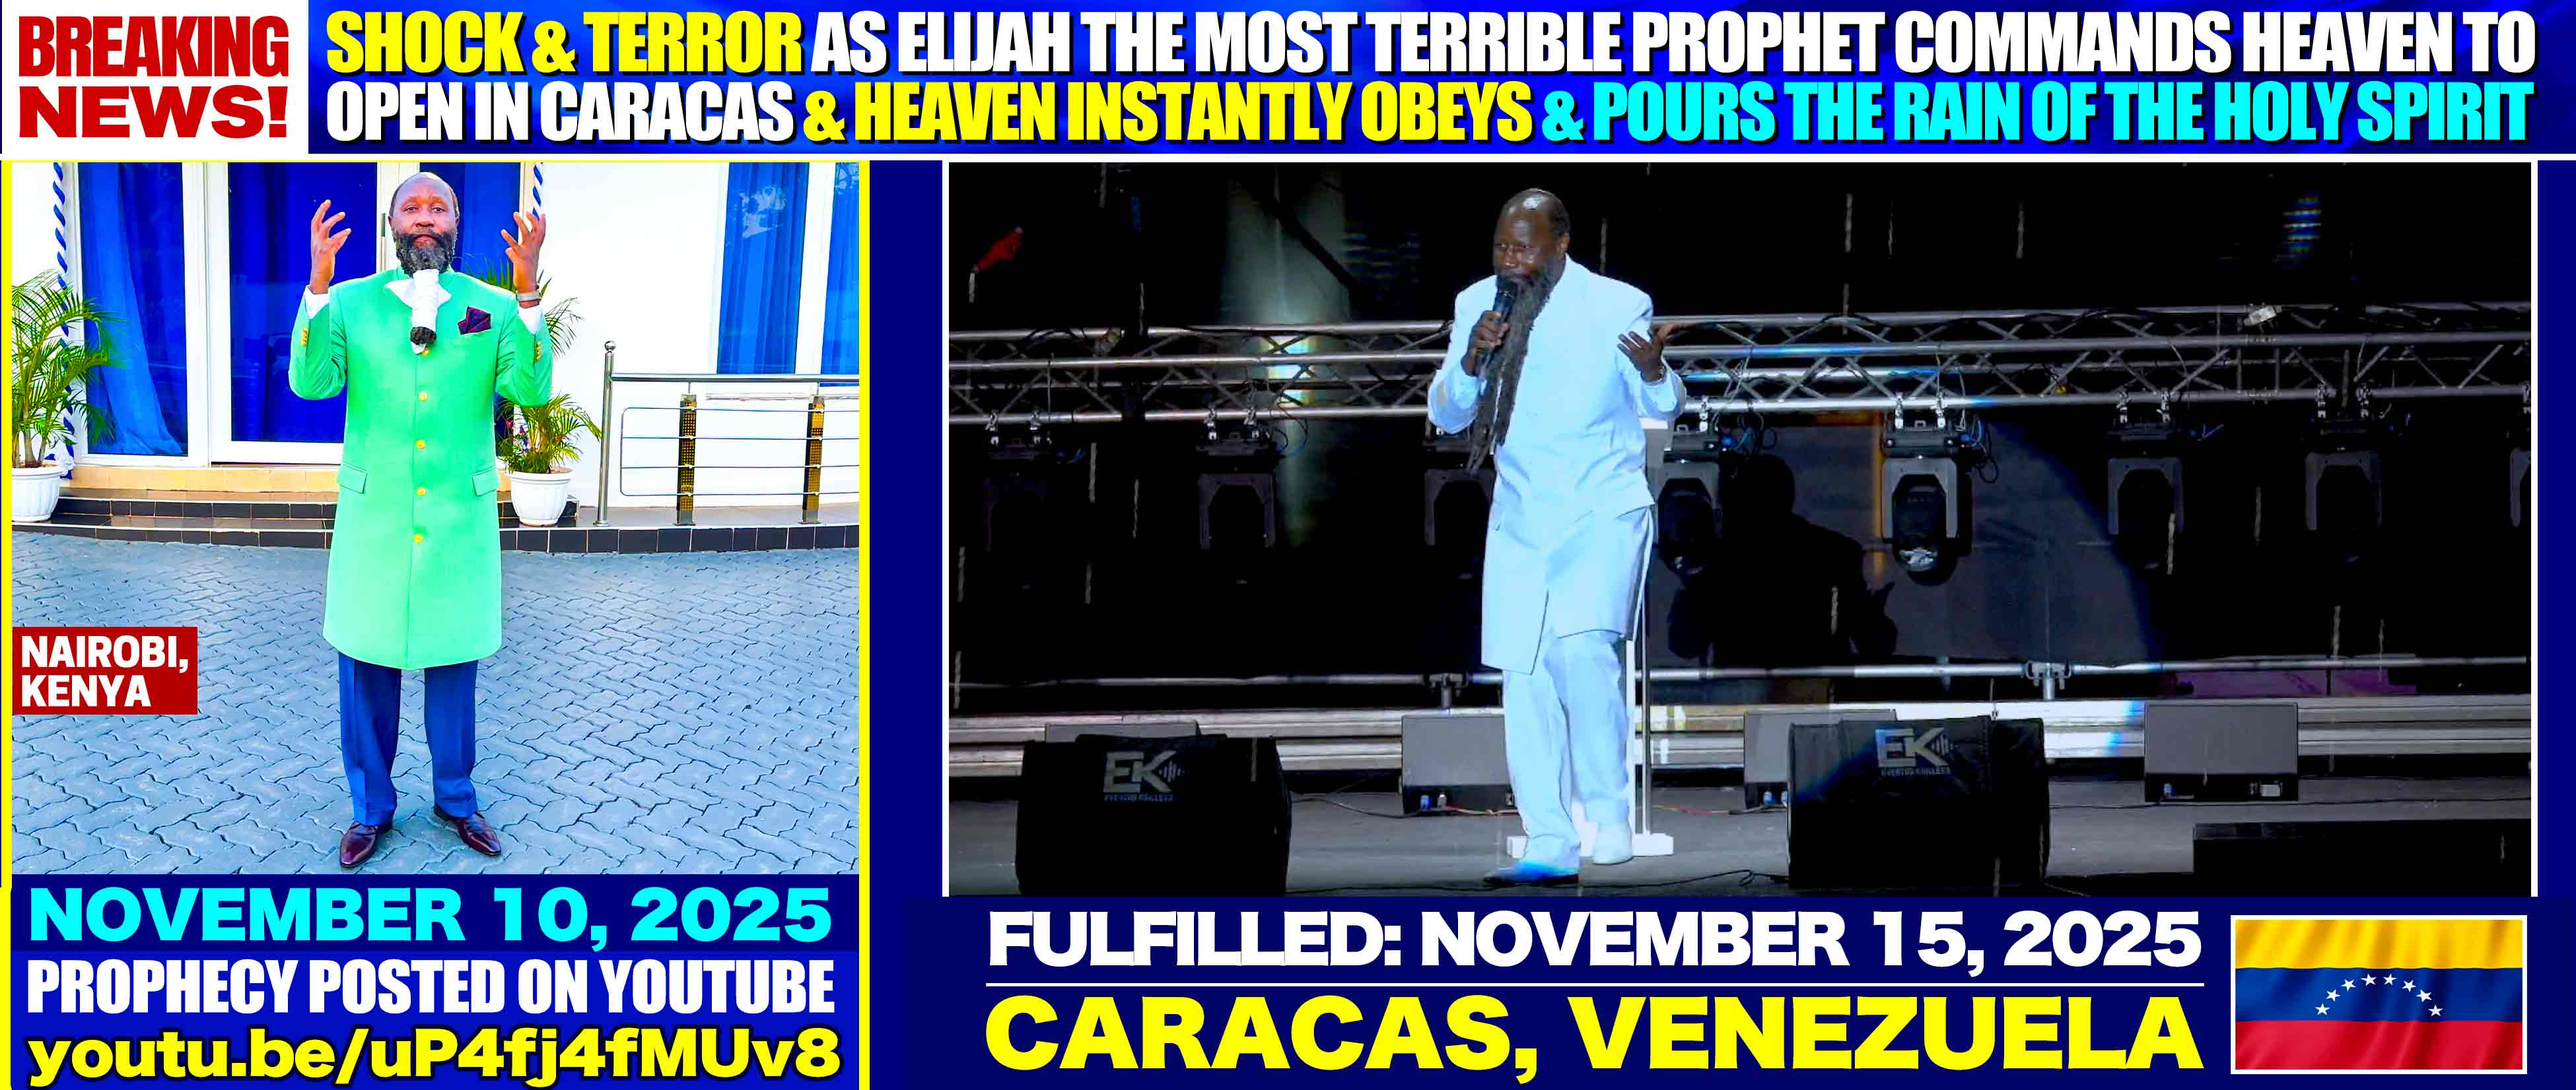
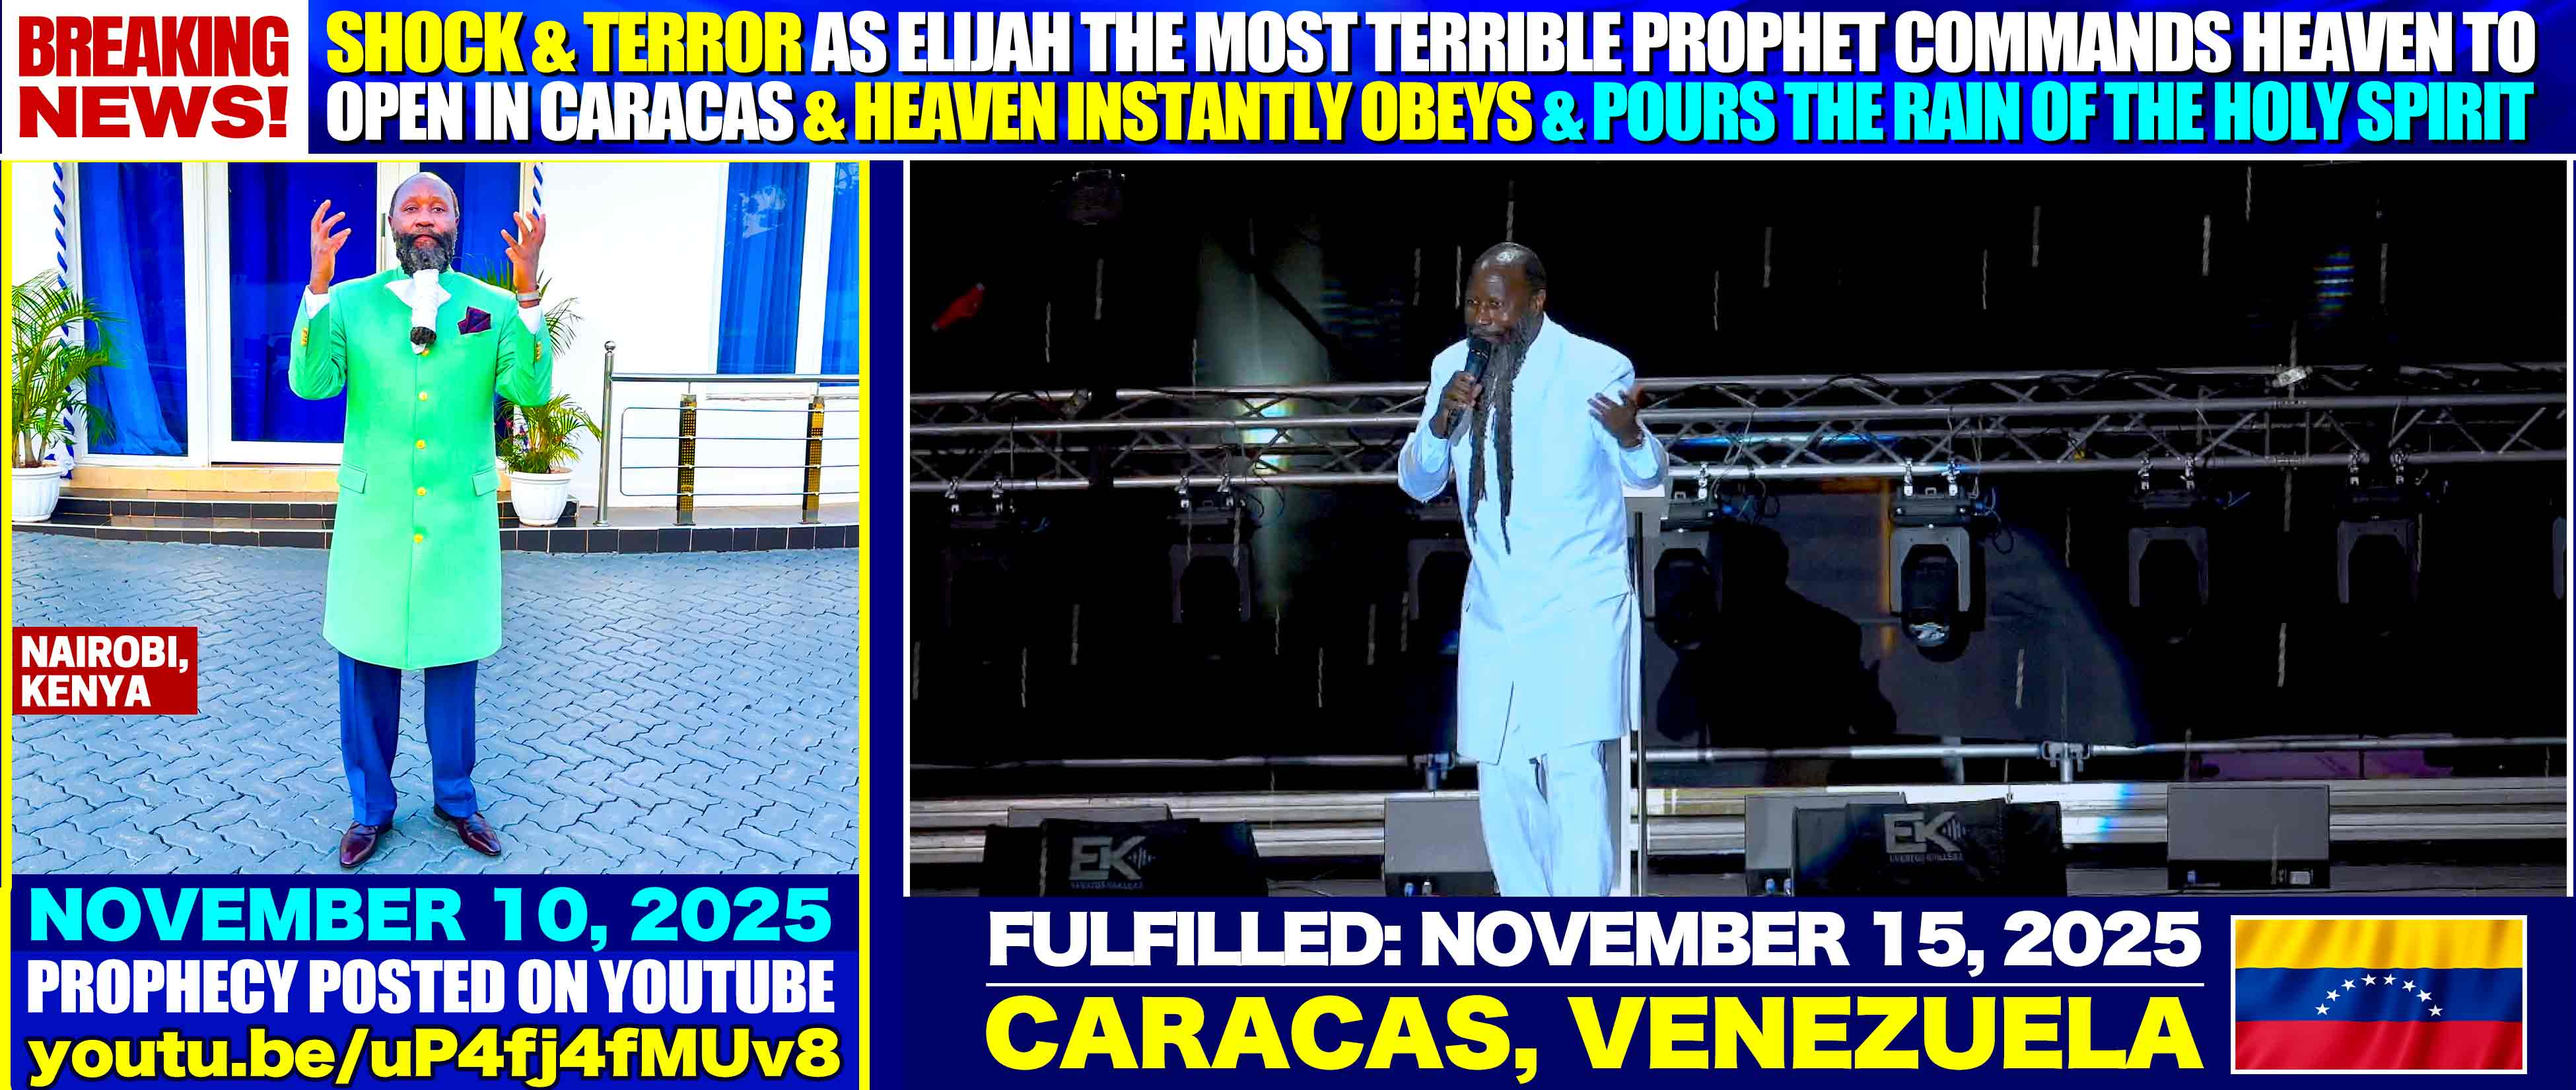
new slides

Changed region(s): [[0.3412, 0.1235, 1.0, 0.8335]]

diff --git a/index.html b/index.html
@@ -12,6 +12,8 @@
 
 
       <img class="slideshow" src= "https://pub-9f92551086574e82abebdc7b9c83cf92.r2.dev/Caracas%202025/Rain/1.jpg" alt="Unstable internet, please refresh the browser"> 
+      <img class="slideshow" src= "https://pub-9f92551086574e82abebdc7b9c83cf92.r2.dev/Caracas%202025/Rain/2.jpg" alt="Unstable internet, please refresh the browser"> 
+      
 
 
       
